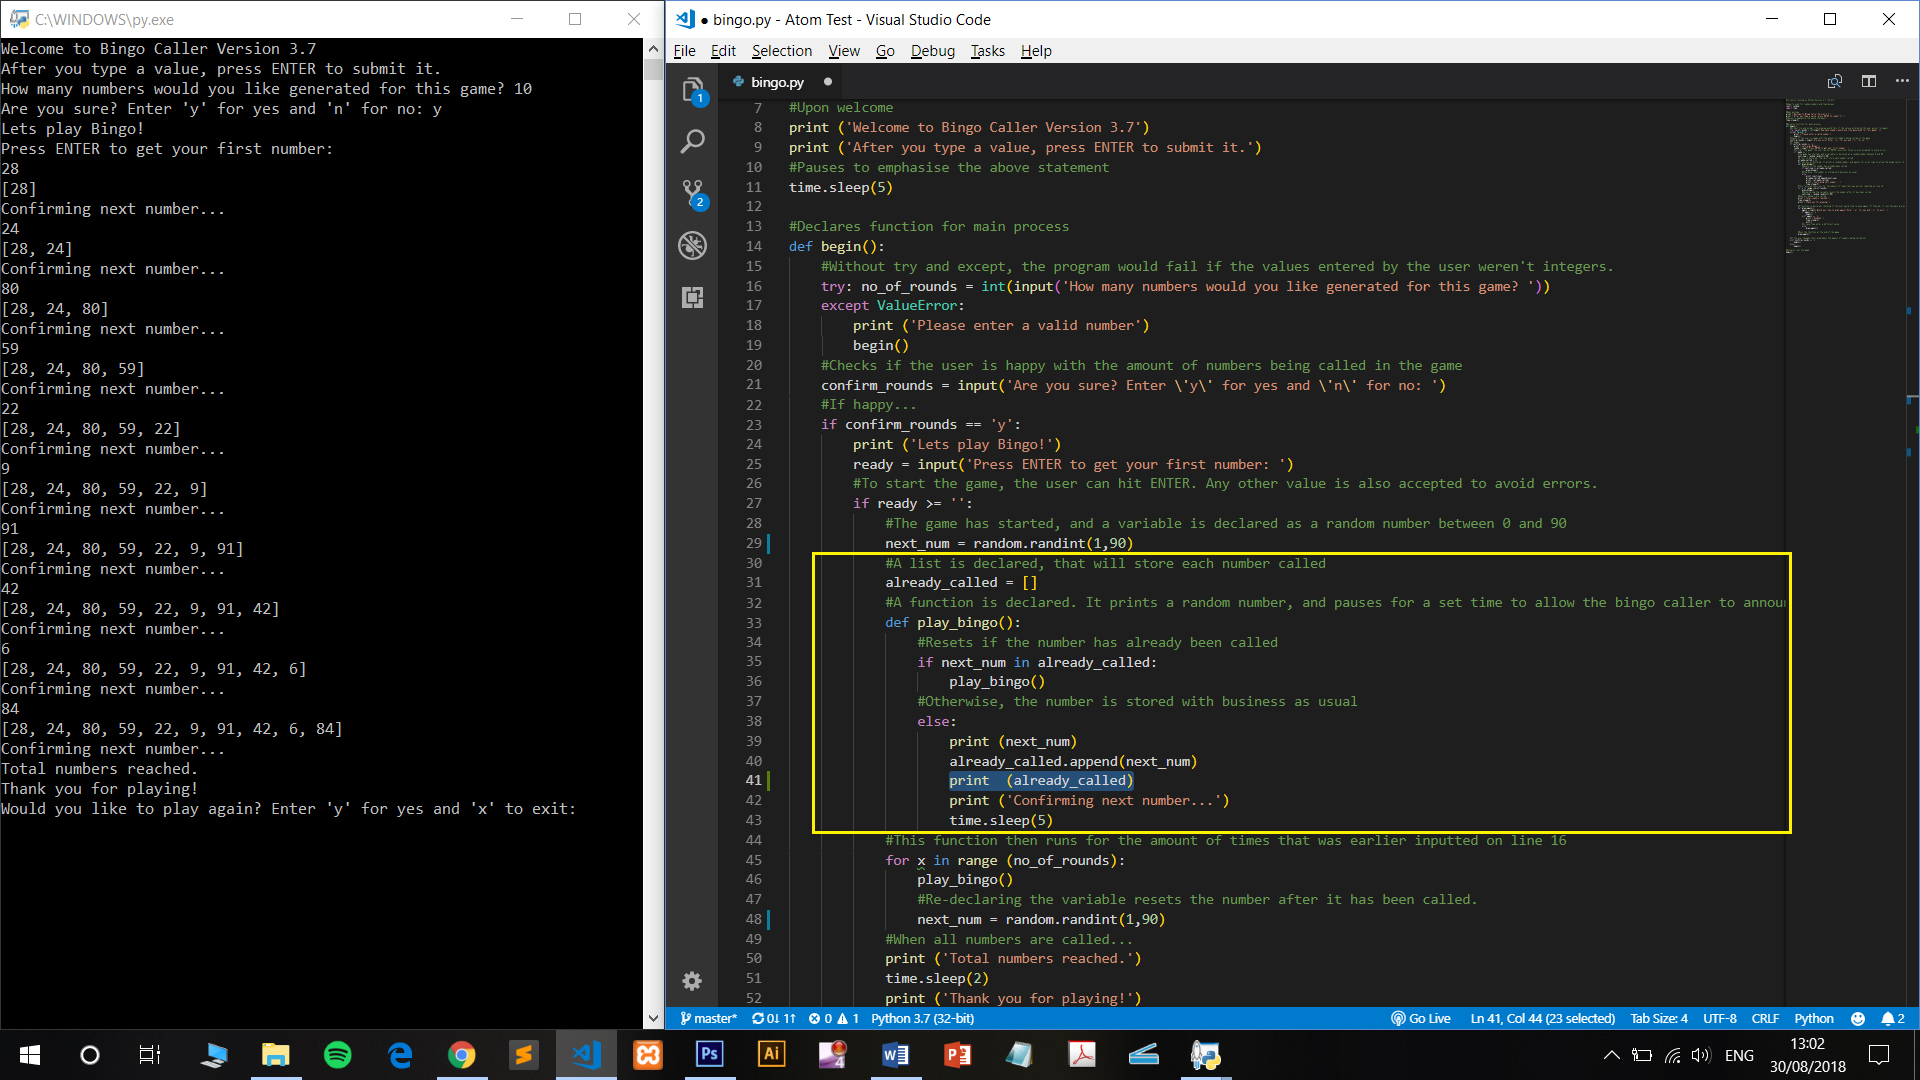
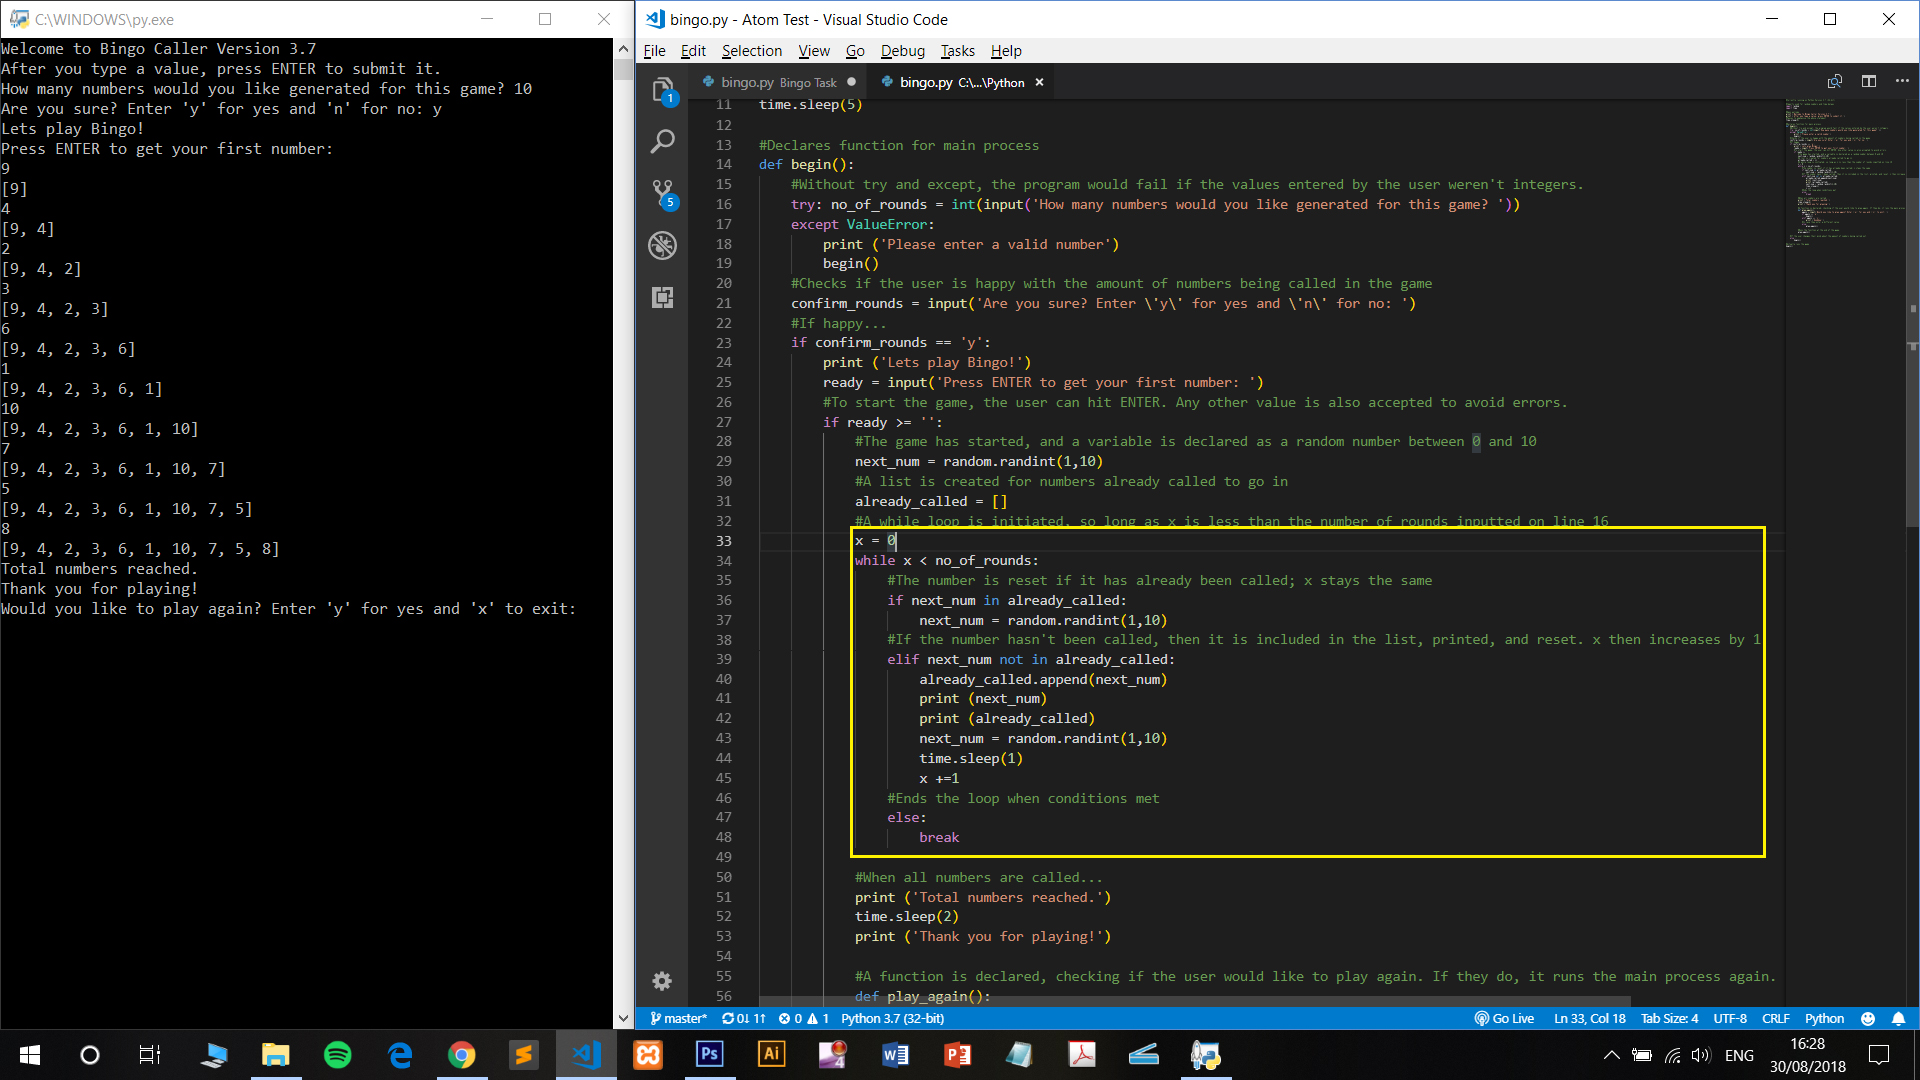
replaced for loop with while loop

diff --git a/Bingo Task/bingo.py b/Bingo Task/bingo.py
@@ -26,25 +26,26 @@ def begin():
 		#To start the game, the user can hit ENTER. Any other value is also accepted to avoid errors.
 		if ready >= '':
 			#The game has started, and a variable is declared as a random number between 0 and 90
-			next_num = random.randint(1,90)
-			#A list is declared, that will store each number called
+			next_num = random.randint(1,91)
+			#A list is created for numbers already called to go in
 			already_called = []
-			#A function is declared. It prints a random number, and pauses for a set time to allow the bingo caller to announce it.
-			def play_bingo():
-				#Resets if the number has already been called
+			#A while loop is initiated, so long as x is less than the number of rounds inputted on line 16
+			x = 0
+			while x < no_of_rounds:
+				#The number is reset if it has already been called; x stays the same
 				if next_num in already_called:
-					play_bingo()
-				#Otherwise, the number is stored with business as usual
-				else:
-					print (next_num)
+					next_num = random.randint(1,91)
+				#If the number hasn't been called, then it is included in the list, printed, and reset. x then increases by 1						
+				elif next_num not in already_called:
 					already_called.append(next_num)
-					print ('Confirming next number...')
-					time.sleep(5)
-			#This function then runs for the amount of times that was earlier inputted on line 16	
-			for x in range (no_of_rounds):
-				play_bingo()
-				#Re-declaring the variable resets the number after it has been called.
-				next_num = random.randint(1,90)
+					print (next_num)
+					next_num = random.randint(1,91)
+					time.sleep(5)	
+					x +=1
+				#Ends the loop when conditions met				
+				else:
+					break
+				
 			#When all numbers are called...
 			print ('Total numbers reached.')
 			time.sleep(2)
@@ -57,8 +58,6 @@ def begin():
 					begin()
 				elif again == 'x':
 					print ('Goodbye!')
-					time.sleep(2)
-					exit()
 				#In case they enter a different value
 				else: 
 					play_again()
@@ -67,8 +66,6 @@ def begin():
 			play_again()
 	
 	#If the user changes their mind about the amount of numbers being called out. 		
-	elif confirm_rounds == 'n':
-		begin()
 	else :
 		begin()
 
